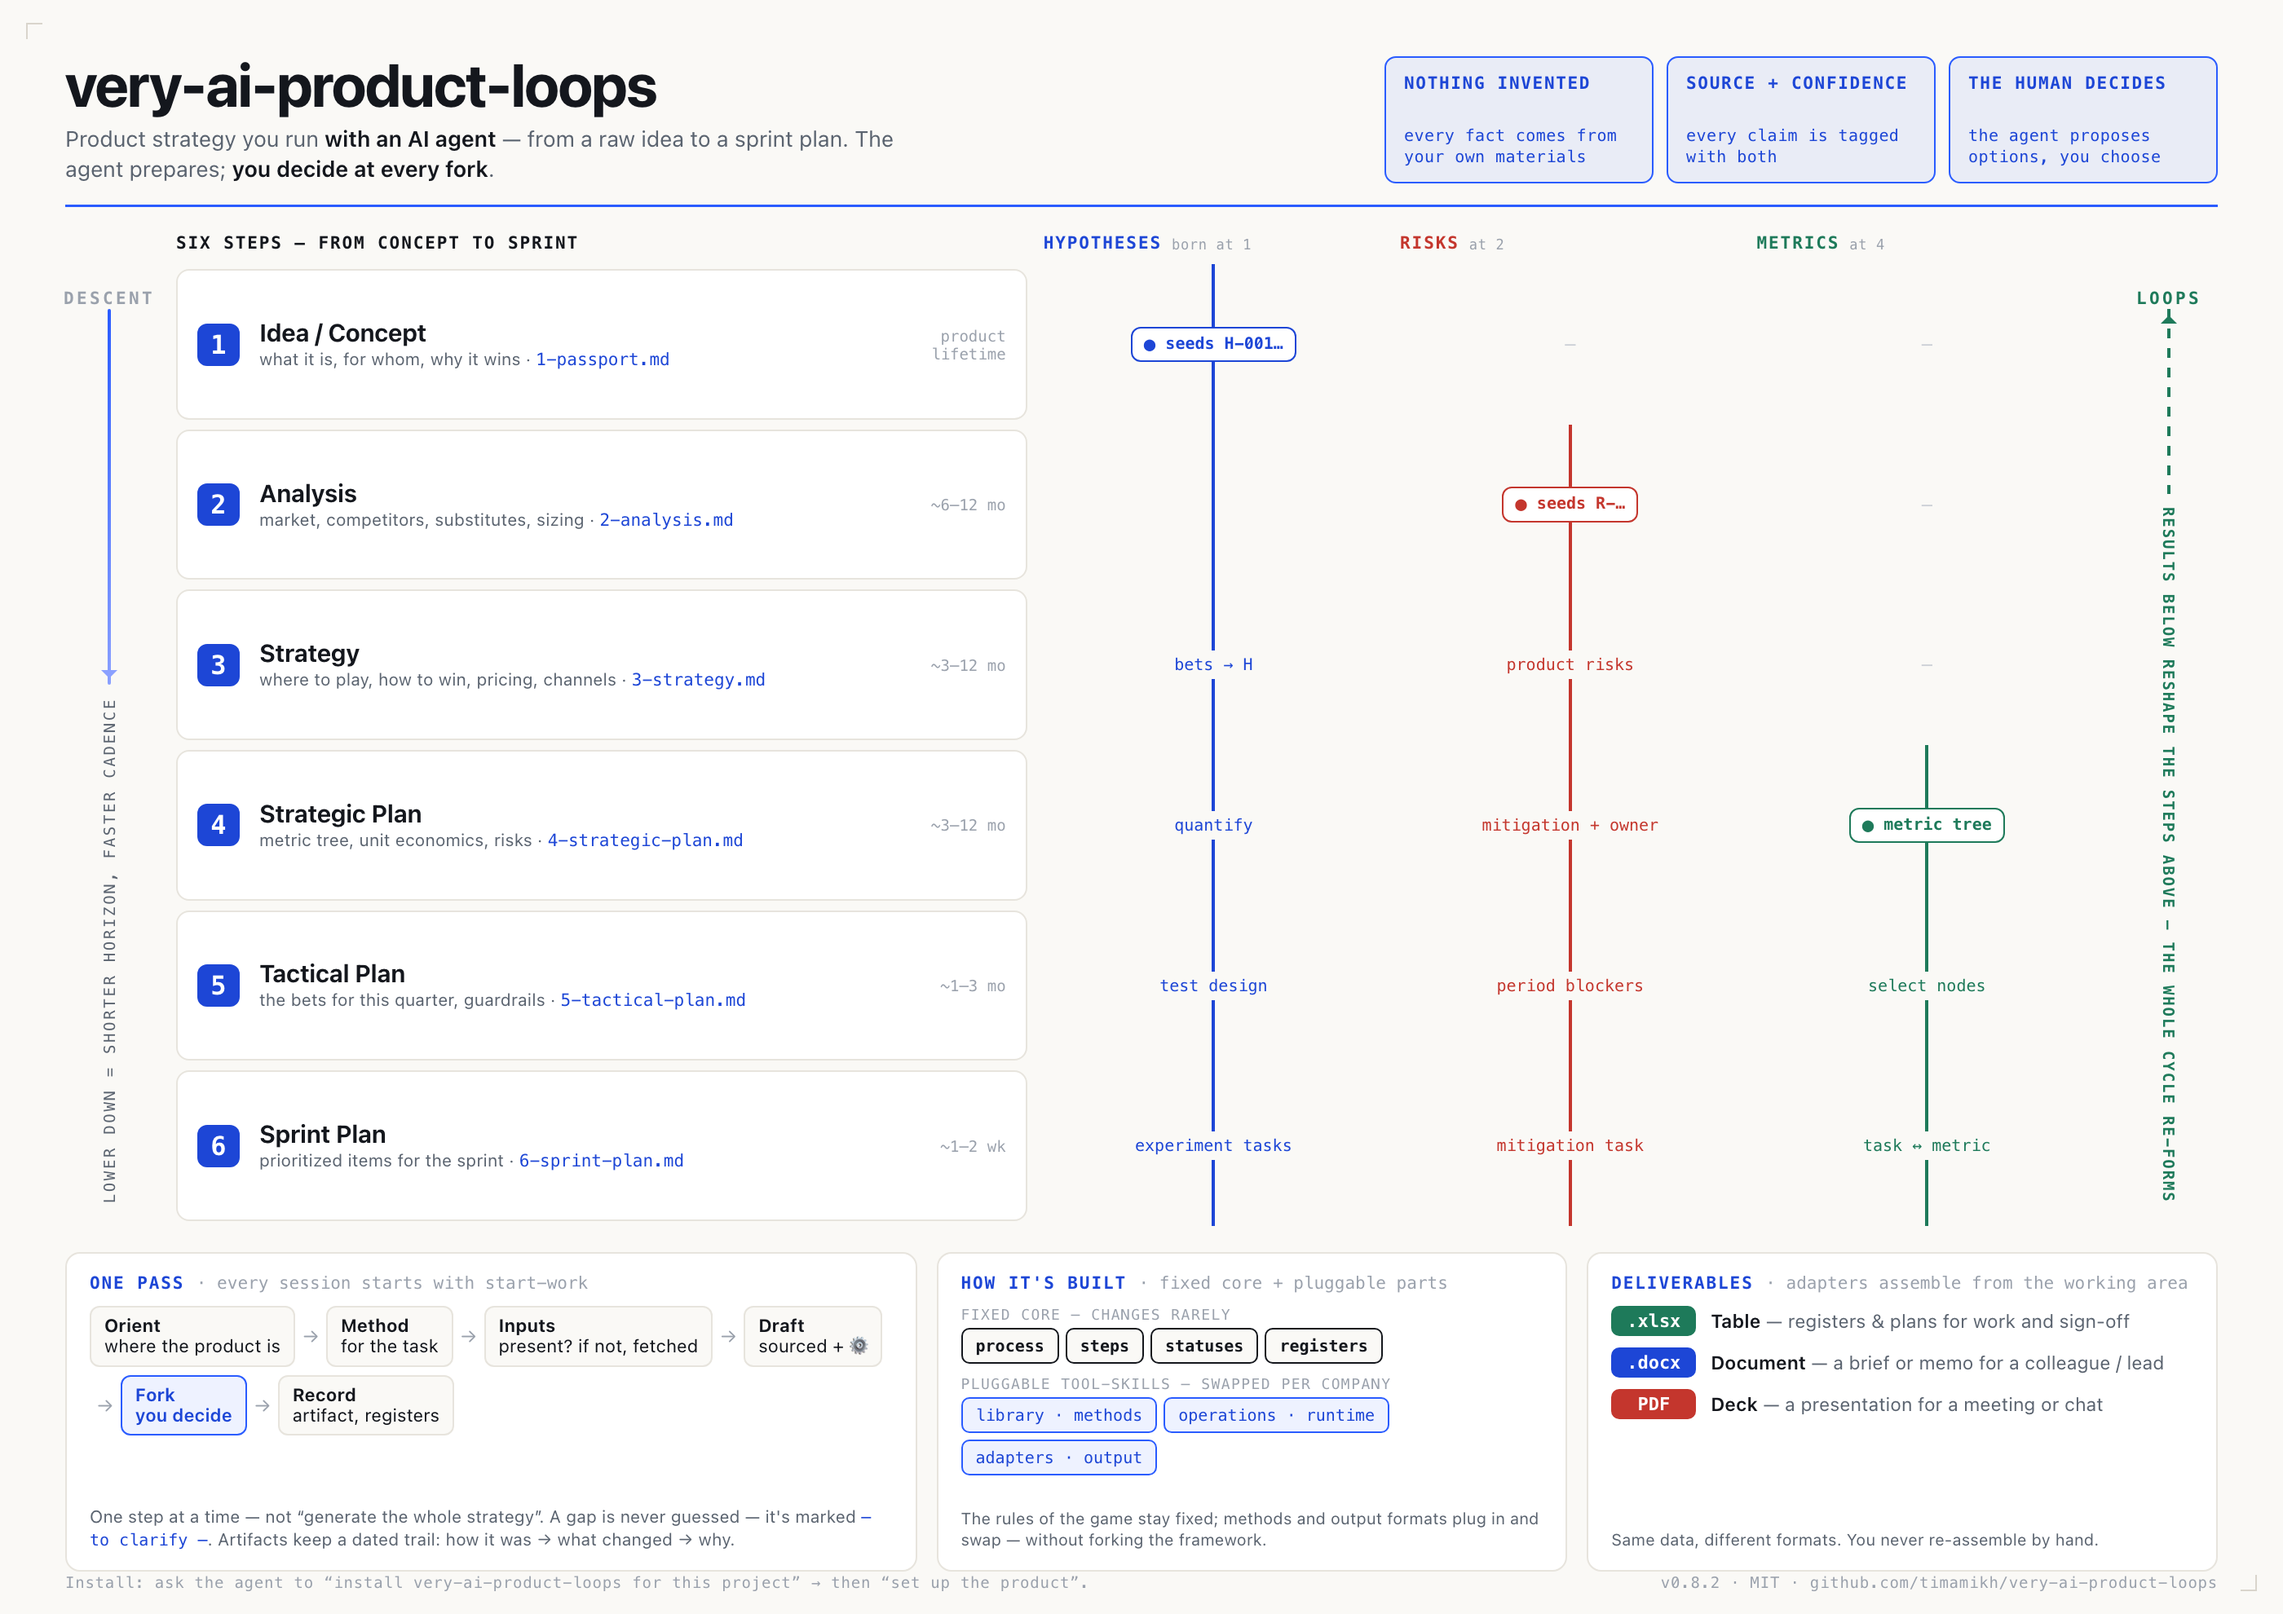
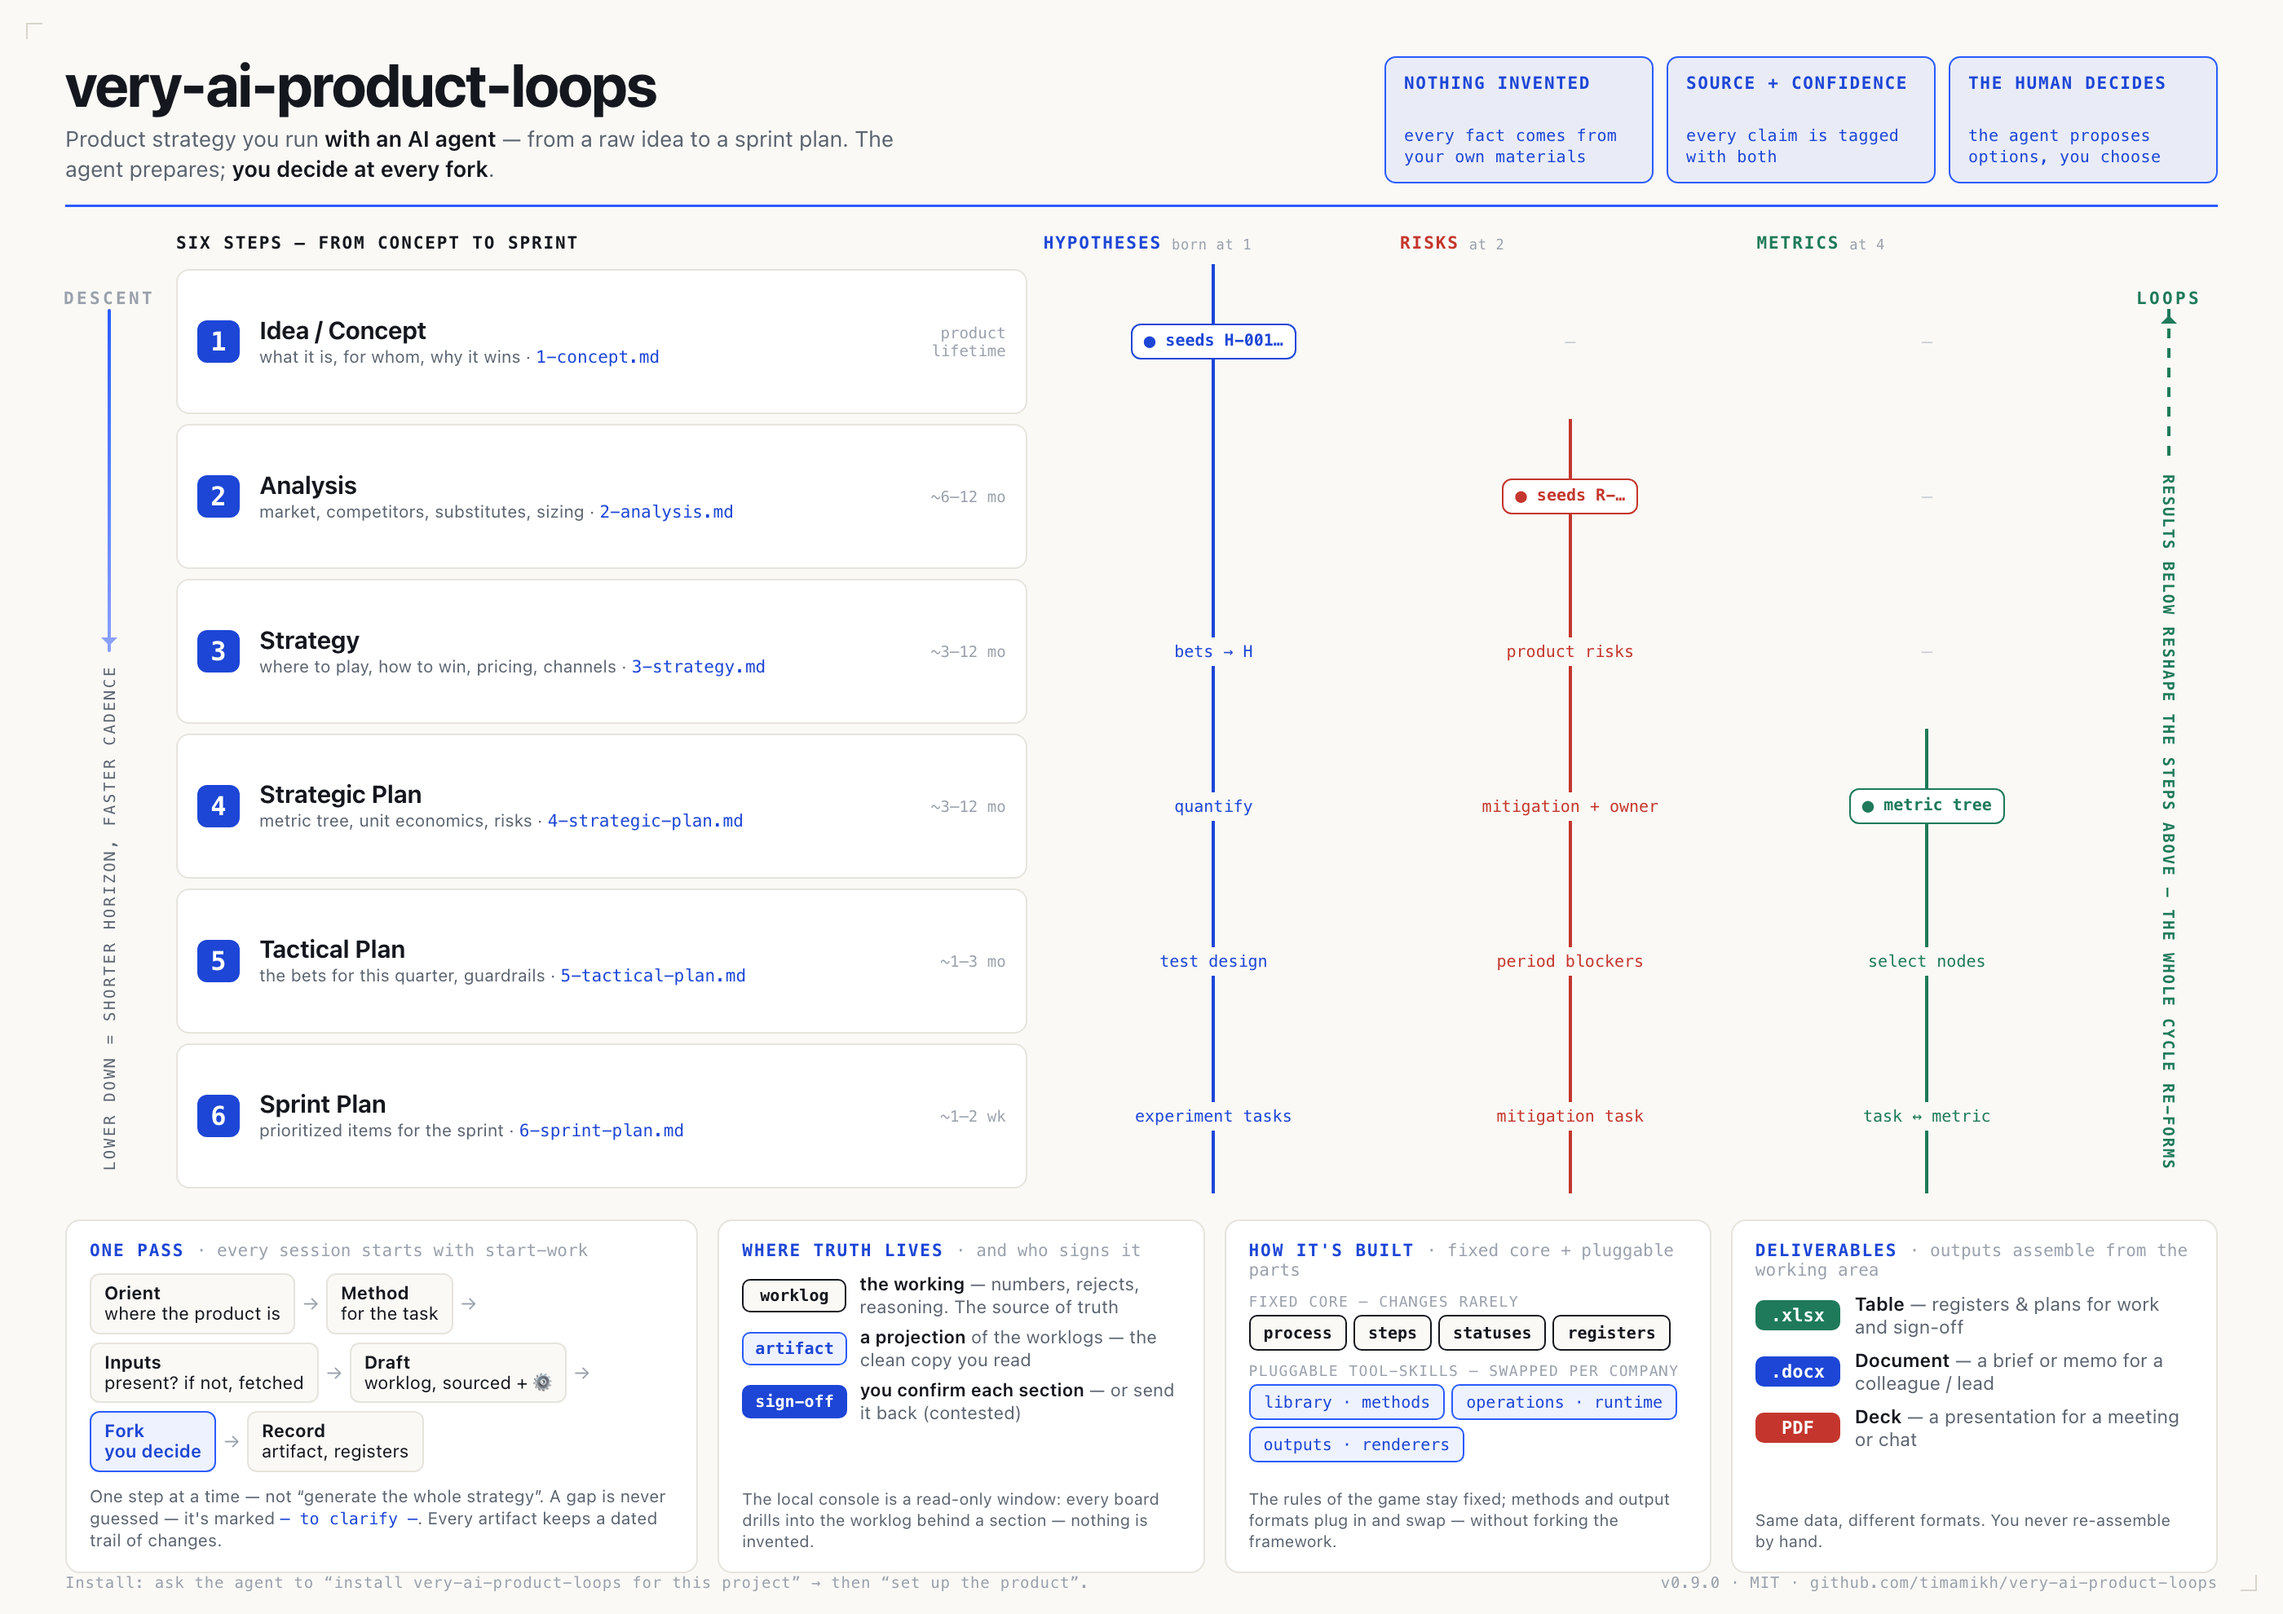
release prep: the data-flow map in README + the one-pager learns where truth lives
README gains the missing half of "How data flows": the same flow drawn as a
mermaid map (sources and the human in chat → worklogs → projection → artifacts
→ registers/state, linter and console reading from the side), and a per-file
reference table — who writes each file, who reads it, when. The two rules that
make the map trustable are stated under it: only `draft` subagents write, and
the console has no write path.

The one-pager catches up with the canon it was missing: a fourth panel — where
truth lives (worklog → artifact → sign-off), the axis the framework grew since
July; the tool-skills pills say `outputs` instead of the retired `adapters`
name; the pass flow names the draft as the worklog. docs/onepager.png
re-rendered from the html (it had gone stale — July render of an August file).

Version to 0.9.0 in README frontmatter, Status and the one-pager foot.

diff --git a/docs/onepager.html b/docs/onepager.html
@@ -14,7 +14,7 @@
   body{background:var(--chrome);font-family:var(--sans);color:var(--ink);-webkit-font-smoothing:antialiased}
   .sheet{
     width:1400px;height:990px;margin:0 auto;background:var(--canvas);
-    padding:34px 40px 26px;display:flex;flex-direction:column;gap:16px;position:relative;overflow:hidden;
+    padding:34px 40px 36px;display:flex;flex-direction:column;gap:16px;position:relative;overflow:hidden;
   }
   /* corner registration ticks — house motif from the deck */
   .sheet::before,.sheet::after{content:"";position:absolute;width:9px;height:9px;border-color:var(--line-2);border-style:solid}
@@ -88,7 +88,17 @@
                  text-transform:uppercase;color:var(--met);margin:8px 0;font-weight:600;text-align:center;line-height:1.3}
 
   /* ---------- bottom strip ---------- */
-  .strip{display:grid;grid-template-columns:1.35fr 1fr 1fr;gap:12px;height:196px}
+  .strip{display:grid;grid-template-columns:1.3fr 1fr 1fr 1fr;gap:12px;height:206px}
+  /* truth chain: worklog → artifact → sign-off */
+  .truth{display:flex;flex-direction:column;gap:5px}
+  .trow{display:flex;align-items:center;gap:8px;font-size:11px;line-height:1.25}
+  .trow .tf{font-family:var(--mono);font-weight:700;font-size:10px;border-radius:5px;padding:3px 7px;
+            min-width:64px;text-align:center;flex-shrink:0;border:1px solid var(--line-2);background:var(--canvas)}
+  .trow .tf.wl{border-color:var(--ink);color:var(--ink)}
+  .trow .tf.art{border-color:var(--accent);color:var(--accent-ink);background:var(--accent-soft)}
+  .trow .tf.sig{background:var(--accent-ink);border-color:var(--accent-ink);color:#fff}
+  .trow .td{color:var(--muted)} .trow .td b{color:var(--ink);font-weight:600}
+  .truthnote{font-size:10px;color:var(--muted);line-height:1.3;margin-top:auto}
   .panel{border:1px solid var(--line);border-radius:9px;background:var(--paper);padding:12px 14px;display:flex;flex-direction:column;gap:8px}
   .panel h3{font-family:var(--mono);font-size:10.5px;letter-spacing:.09em;text-transform:uppercase;color:var(--accent-ink);font-weight:700}
   .panel h3 span{color:var(--faint);font-weight:500;text-transform:none;letter-spacing:0}
@@ -225,12 +235,23 @@
         <span class="fstep"><b>Orient</b><br>where the product is</span><span class="farr">→</span>
         <span class="fstep"><b>Method</b><br>for the task</span><span class="farr">→</span>
         <span class="fstep"><b>Inputs</b><br>present? if not, fetched</span><span class="farr">→</span>
-        <span class="fstep"><b>Draft</b><br>sourced + ⚙</span><span class="farr">→</span>
+        <span class="fstep"><b>Draft</b><br>worklog, sourced + ⚙</span><span class="farr">→</span>
         <span class="fstep you"><b>Fork</b><br>you decide</span><span class="farr">→</span>
         <span class="fstep"><b>Record</b><br>artifact, registers</span>
       </div>
       <div class="loopnote">One step at a time — not “generate the whole strategy”. A gap is never guessed —
-        it's marked <code>— to clarify —</code>. Artifacts keep a dated trail: how it was → what changed → why.</div>
+        it's marked <code>— to clarify —</code>. Every artifact keeps a dated trail of changes.</div>
+    </div>
+
+    <div class="panel">
+      <h3>Where truth lives <span>· and who signs it</span></h3>
+      <div class="truth">
+        <div class="trow"><span class="tf wl">worklog</span><span class="td"><b>the working</b> — numbers, rejects, reasoning. The source of truth</span></div>
+        <div class="trow"><span class="tf art">artifact</span><span class="td"><b>a projection</b> of the worklogs — the clean copy you read</span></div>
+        <div class="trow"><span class="tf sig">sign-off</span><span class="td"><b>you confirm each section</b> — or send it back (contested)</span></div>
+      </div>
+      <div class="truthnote">The local console is a read-only window: every board drills into the
+        worklog behind a section — nothing is invented.</div>
     </div>
 
     <div class="panel">
@@ -239,13 +260,13 @@
         <div class="archrow"><div class="rl">Fixed core — changes rarely</div>
           <div class="pills"><span class="pill core">process</span><span class="pill core">steps</span><span class="pill core">statuses</span><span class="pill core">registers</span></div></div>
         <div class="archrow"><div class="rl">Pluggable tool-skills — swapped per company</div>
-          <div class="pills"><span class="pill plug">library · methods</span><span class="pill plug">operations · runtime</span><span class="pill plug">adapters · output</span></div></div>
+          <div class="pills"><span class="pill plug">library · methods</span><span class="pill plug">operations · runtime</span><span class="pill plug">outputs · renderers</span></div></div>
       </div>
       <div class="archnote">The rules of the game stay fixed; methods and output formats plug in and swap — without forking the framework.</div>
     </div>
 
     <div class="panel">
-      <h3>Deliverables <span>· adapters assemble from the working area</span></h3>
+      <h3>Deliverables <span>· outputs assemble from the working area</span></h3>
       <div class="deliv">
         <div class="drow"><span class="fmt x">.xlsx</span><span class="dd"><b>Table</b> — registers &amp; plans for work and sign-off</span></div>
         <div class="drow"><span class="fmt d">.docx</span><span class="dd"><b>Document</b> — a brief or memo for a colleague / lead</span></div>
@@ -257,6 +278,6 @@
 
   <div class="foot">
     <span>Install: ask the agent to “install very-ai-product-loops for this project” → then “set up the product”.</span>
-    <span>v0.8.2 · MIT · github.com/timamikh/very-ai-product-loops</span>
+    <span>v0.9.0 · MIT · github.com/timamikh/very-ai-product-loops</span>
   </div>
 </div>

diff --git a/README.md b/README.md
@@ -2,8 +2,8 @@
 node_type: readme
 title: very-ai-product-loops — README
 status: released
-version: 0.8.3
-updated: 2026-08-09
+version: 0.9.0
+updated: 2026-08-17
 ---
 
 # very-ai-product-loops
@@ -150,6 +150,51 @@ One rule sits under everything: **data lands in a draft first; the polished arti
 
 The links run one way: **board → artifact section → its worklog → (sometimes) a source.** Sources are leaves.
 
+**The same flow as a map** — what enters where, and what it becomes:
+
+```mermaid
+flowchart LR
+  subgraph enters["data enters"]
+    SRC["sources/ + INDEX.md<br/>raw external material"]
+    HUM["human in chat<br/>forks · answers · sign-off"]
+  end
+  subgraph works["the working (source of truth)"]
+    WL["step worklogs<br/>&lt;step&gt;/&lt;method&gt;.md"]
+  end
+  subgraph signs["what the human reads & signs"]
+    ART["step artifacts<br/>1-concept.md … 6-sprint-plan.md"]
+  end
+  subgraph memory["the product's memory"]
+    REG["registers/<br/>hypotheses · risks · metric-tree"]
+    CSV["registers/metrics.csv<br/>readings"]
+    ST["state.yaml<br/>gates · sign-offs"]
+  end
+  SRC -- "source-intake" --> WL
+  HUM -- "answers a fork" --> WL
+  WL -- "projection" --> ART
+  ART -- "seeds ids (H-/R-/M-)" --> REG
+  HUM -- "theses: sign-off" --> ST
+  ART -- "gate ticks" --> ST
+  SRC -- "metrics-capture" --> CSV
+  LINT["tools/lint.py — structure only"] -.reads all.-> WL
+  UI["tools/ui — console & HTML export, read-only"] -.reads all.-> ART
+```
+
+**Per file: who writes it, who reads it**
+
+| File | Written by | Read by | When |
+|------|-----------|---------|------|
+| `sources/*` + `sources/INDEX.md` | human drops it, agent indexes | `source-intake`, worklogs (as citations) | material arrives; never rewritten |
+| `<step>/<method>.md` (worklog) | whoever does the working (orchestrator or a `draft` subagent) | orchestrator (projection), console drill-through, `verify` | during a pass; the source of truth |
+| `<n>-<step>.md` (artifact) | orchestrator only, as a projection | the human (to sign), console boards, later steps | after the worklog is checked |
+| `registers/*.md` | orchestrator only | every step that touches the id; console | when a section seeds or refines an id |
+| `registers/metrics.csv` | `metrics-capture` | metrics tab, decisions | when a reading is taken |
+| `state.yaml` | orchestrator only | `start-work` (resume), console rail | gate ticks and sign-offs |
+| `export-files/*` | `outputs` skills, console export | people outside the repo | on demand; frozen copies |
+
+Two rules make the map safe to trust: subagents other than `draft` write **nothing**, and the
+console has **no write path** — everything on a board is a projection of a file you can open.
+
 ## How the agent reads the repo (for the curious)
 
 An agent working here boots in a fixed order. The rules live in one file, [`AGENTS.md`](AGENTS.md)
@@ -168,7 +213,10 @@ points it at that file; the framework never depends on a vendor's boot behaviour
 
 ## Status
 
-Released as **v0.8.0** under the MIT license — usable and open for others to vendor. Built in phases:
+Released as **v0.9.0** under the MIT license — usable and open for others to vendor. Since 0.8:
+the reference run (`examples/decksmith/`, steps 1–6 from a founder brief, raw run + review pass as
+two commits), section sign-off (`theses`: confirmed / contested / rests-on), register gradations,
+and the console rework (step boards, dual rings, worklog drill-through). Built in phases:
 
 - **Phase 0 — Process foundation** → [`process/OVERVIEW.md`](process/OVERVIEW.md) · [operating loop](process/OPERATING-LOOP.md) · [conventions](process/CONVENTIONS.md) _(merged)_
 - **Phase 1 — Step/tool/status anatomy + golden exemplar (Step 1, all 4 tools)** _(merged)_
